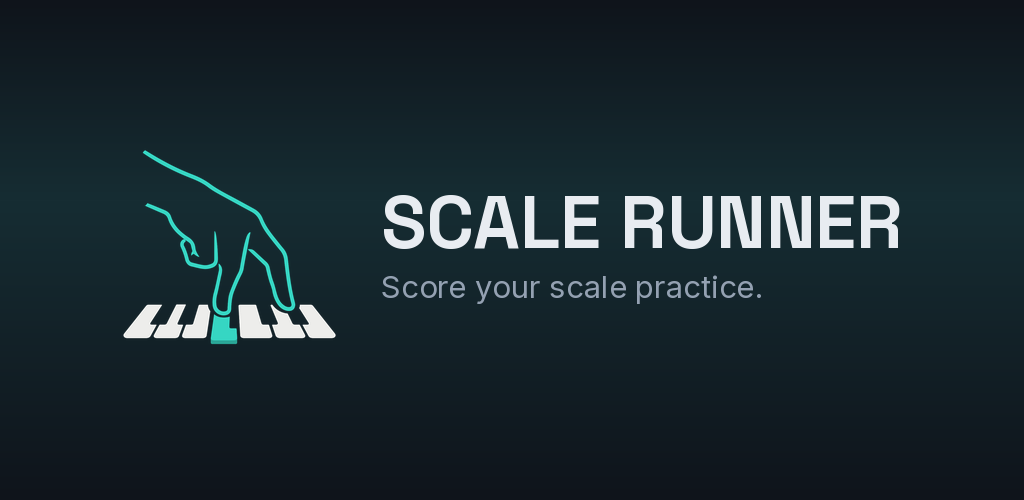
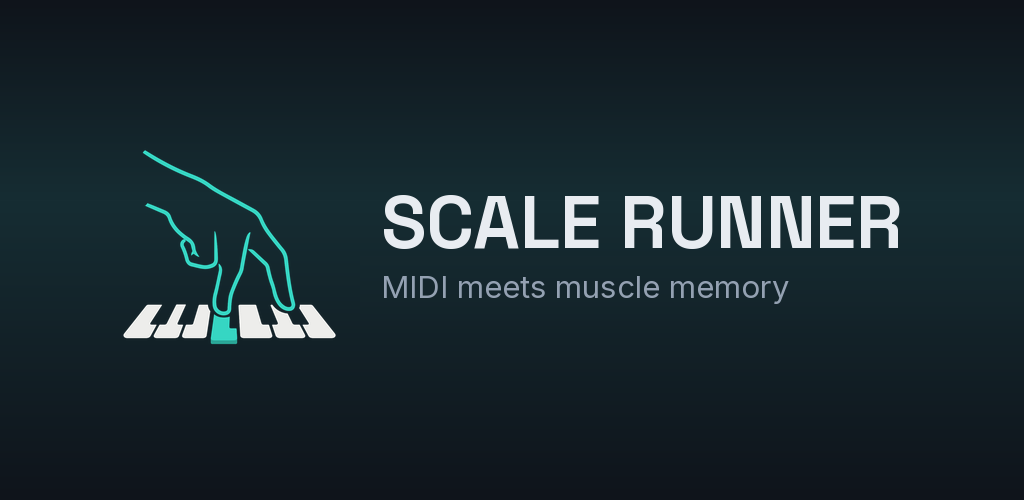
chore(store): update launch strategy doc and add IG ad assets
Carries the outreach/IG-ad progress recorded in docs/launch-strategy.md
plus the exported Android screenshots, Play icon, and the retagged
feature graphic ("MIDI meets muscle memory").

Claude-Session: https://claude.ai/code/session_01VHdwr6YH3qLkyhR7sZ3ed2

Changed region(s): [[0.375, 0.54, 0.7812, 0.6]]

diff --git a/docs/launch-strategy.md b/docs/launch-strategy.md
@@ -4,6 +4,37 @@
 
 ---
 
+## Status update — 2026-08-17
+
+Both stores are submitted. This section is the current truth; §0's "blockers
+before submission" below is now historical — left in place so the doc still
+reads top to bottom, but don't act on it as a to-do list.
+
+- **iOS 1.0** submitted 2026-08-12, build 1.0.0+8 — was "Waiting for Review" as
+  of submission. Check App Store Connect for current status; Apple's typical
+  window (2–5 days) has elapsed, so it may already be approved.
+- **Android 1.0.0 (11)** submitted 2026-08-13 to production, 177 countries —
+  was "in review." Google quotes up to 7 days, so it's likely still pending as
+  of today. Check Play Console.
+- `kPubliclyLaunched` is already `true`. The two beta URLs in
+  `web_hosting/hostinger/invite/index.html` are **still pointing at
+  TestFlight/Firebase** — deliberately left alone until **both** listings go
+  public, per plan. Swap them the moment both are live.
+- **iOS sandbox purchase test and Android license-tester purchase test have
+  still never been run.** As of 2026-08-12 the App Store IAP
+  (`com.scalerunner.app.pro`) was sitting in "Missing Metadata" in App Store
+  Connect, which would block the paywall from loading a price. Verify this is
+  cleared before launch day — if it's still stuck, the $14.99 unlock won't
+  work on day one.
+- Google sign-in on Android is confirmed working on real hardware. Invite
+  links opening the app have **not** been confirmed on hardware yet.
+- Landing page at `scalerunner.c1gnus.com`, beta tester emails, personal
+  network outreach, pre-launch video posting, and teacher outreach (§3,
+  Days 2–7) — no record of any of these having started yet. This is very
+  likely today's actual work.
+
+---
+
 ## 0. The timeline reality check (read this first)
 
 You said "launch within the week." Neither app is submitted yet, so **that is not
@@ -39,6 +70,9 @@ and a burst of day-one installs is the single biggest free ranking signal either
 store gives you.
 
 ### Blockers that must close before submission
+
+*(Historical — both stores are now submitted. See "Status update" above for
+what's actually still open.)*
 
 - **iOS IAP** — the RevenueCat/Apple bundle-ID credential incident. If it's
   still open, you can submit the app but the $14.99 unlock won't validate.
@@ -159,21 +193,27 @@ shoot once, use twice.
 
 ## 3. The 14-day plan
 
-### Days 1–2 (Wed 8/13 – Thu 8/14) — Ship the submission
+### Days 1–2 (Wed 8/13 – Thu 8/14) — Ship the submission ✅ DONE
 
-- Close the iOS IAP blocker or accept shipping with the paywall inactive on iOS.
-- On-device pass: Google sign-in, invite link opens app, purchase flow, a full
-  practice run start to finish.
-- Flip `kPubliclyLaunched`, swap invite-page URLs.
-- Build ASO assets (screenshots, video, copy above).
-- **Submit both stores.** Do not sit on this — every hour of delay is an hour
-  of review clock not running.
+- ~~Close the iOS IAP blocker or accept shipping with the paywall inactive on
+  iOS.~~ iOS submitted 8/12 with the IAP attached; metadata status needs a
+  recheck (see Status update above).
+- ~~On-device pass: Google sign-in, invite link opens app, purchase flow, a
+  full practice run start to finish.~~ Google sign-in confirmed. Invite link
+  and purchase flow **still not confirmed on hardware** — carry this forward,
+  don't drop it.
+- ✅ Flipped `kPubliclyLaunched`. Invite-page URL swap is intentionally
+  deferred until both listings are public (see Status update).
+- ✅ ASO assets built (iPhone, iPad, and Android screenshots all shipped).
+- ✅ **Submitted both stores** — iOS 8/12, Android 8/13.
 
-### Days 2–7 — Build the day-one list while review runs
+### Days 2–7 (through ~Mon 8/19) — Build the day-one list while review runs — 🔶 LIKELY NOT STARTED
 
 This is the whole game. Your objective is **a list of 100+ people who will
 install on launch day**, because concentrated installs is what moves store
 ranking, and ranking is the only free distribution either store gives you.
+No record of any of the below having started — this is probably where today's
+work belongs, alongside the local-outreach push in §8.
 
 - **Landing page.** You already own `scalerunner.c1gnus.com` and it's live on
   Hostinger. Replace the bare redirect at `/` with a real page: hero line, the
@@ -190,8 +230,11 @@ ranking, and ranking is the only free distribution either store gives you.
   out who to show you to. If your first post is on launch day, it reaches
   nobody. Every video ends with "launching next week — link in bio."
 - **Teacher outreach.** 10 emails a day, every day. Template in §5.
+- **Local music schools/stores.** Non-salesy demo asks over IG/FB DM. See §8
+  for the approach, script, and a starter list of 16 LA/Riverside County
+  targets.
 
-### Day 8 (approx. Wed 8/20) — Launch day
+### Day 8 (approx. Wed 8/20) — Launch day — contingent on both stores approving by then; recheck ASC/Play console
 
 - Email the list. One email, one link, morning Pacific.
 - Post the launch video across all three platforms.
@@ -309,6 +352,81 @@ real product worth pushing on. 1,000 installs with 3% retention is a leaky
 bucket, and pouring marketing into it wastes the effort. If retention is weak
 after week one, stop marketing and fix the product — the rewards system is
 almost certainly the fix.
+
+---
+
+## 8. Local outreach — music schools & stores (added 2026-08-17)
+
+Same logic as the teacher-email channel in §5, but lower-friction: a short,
+non-salesy DM to the school or store's Instagram or Facebook, asking if
+they'd be open to a quick demo. No pitch, no ask for money or a partnership —
+just "would you want to see it." A demo that goes well can turn into the
+teacher-email ask (free codes, referrals to students) naturally, but don't
+lead with that.
+
+### The approach
+
+- **DM, don't email**, for this channel — small studios check IG/FB DMs faster
+  than a general inbox, and a DM reads more personal than an email blast.
+  Instagram usually gets a better response rate than Facebook for this size of
+  business.
+- **Pace it like the teacher outreach:** a handful a day, not all 16 at once.
+  Personalize the first line with the school's name and city so it doesn't
+  read as copy-pasted.
+- **Follow up once** after 5–7 days of silence, then move on. Don't chase past
+  that.
+- If a demo happens and goes well, that's the moment to offer free Pro codes
+  for their students (§5's teacher template) and ask if they'd share it with
+  their roster.
+
+### DM script
+
+> Hi! I'm a local developer/pianist and I built Scale Runner — an app that
+> connects to a MIDI keyboard and scores scale/chord practice on timing, so
+> players get instant feedback instead of guessing. It's launching now on
+> iOS/Android.
+>
+> Would you be open to a quick demo sometime? No pitch — I'd genuinely like to
+> show it to people who teach this every day and hear what you think.
+
+### Starter list — LA County & Riverside County (16)
+
+Independent schools and stores, not the big chains (Guitar Center, School of
+Rock, Music & Arts) — a small studio's owner is far more likely to actually
+read a DM and take a demo than a corporate location.
+
+| Done | School / store | City | Instagram | Facebook |
+|---|---|---|---|---|
+| [x] | Los Angeles School of Music | Los Angeles | [@laschoolofmusic](https://www.instagram.com/laschoolofmusic/) | [losangelesschoolofmusic](https://www.facebook.com/losangelesschoolofmusic/) |
+| [x] | Angeles Academy of Music | Los Angeles | [@angelesacademyofmusic](https://www.instagram.com/angelesacademyofmusic/) | [angelesacademyofmusic](https://www.facebook.com/angelesacademyofmusic/) |
+| [x] | Hollywood Academy of Music & Arts | Hollywood | — (not found) | [hollywoodacademyofmusicmelrose](https://www.facebook.com/hollywoodacademyofmusicmelrose) |
+| [x] | Cal Heights Music | Long Beach | [@calheightsmusic](https://www.instagram.com/calheightsmusic) | [calheightsmusic](https://www.facebook.com/calheightsmusic) |
+| [x] | Belmont Music Studio | Long Beach | [@belmontmusicstudio](https://www.instagram.com/belmontmusicstudio/) | [Belmont-Music-Studio](https://www.facebook.com/pages/Belmont-Music-Studio/143077955754827) |
+| [x] | Encore Music School | South Pasadena | [@encoremusicsouthpasadena](https://www.instagram.com/encoremusicsouthpasadena/) | [encoresanmarino](https://www.facebook.com/encoresanmarino/) |
+| [x] | K Music Academy | Pasadena | [@kmusicacademy](https://www.instagram.com/kmusicacademy/) | [Kmusicacademypasadena](https://www.facebook.com/Kmusicacademypasadena) |
+| [x] | Melody Intl. Music School | Glendale | [@melodyintl.musicschool](https://www.instagram.com/melodyintl.musicschool) | [melodymusicschool](https://www.facebook.com/melodymusicschool) |
+| [x] | Hollywood Piano (School of Music) | Burbank / Glendale / LA | [@HollywoodPiano](https://instagram.com/HollywoodPiano) | [HollywoodPiano](https://www.facebook.com/HollywoodPiano) |
+| [x] | Rockside Music | Riverside | [@rocksidemusic](http://www.instagram.com/rocksidemusic) | [rocksidemusic](http://www.facebook.com/rocksidemusic/) |
+| [x] | Corona Music Center | Corona | [@lahabramusic](https://www.instagram.com/lahabramusic/) (shared with parent brand) | [MusicLessonsInCorona](https://www.facebook.com/MusicLessonsInCorona/) |
+| [x] | Bach to the Basics | Corona | [@bachtothebasics](https://www.instagram.com/bachtothebasics/) | [BachToTheBasics](https://www.facebook.com/BachToTheBasics) |
+| [x] | Musicology Temecula | Temecula | [@musicologytemecula](https://www.instagram.com/musicologytemecula/) | [musicologytemecula](https://www.facebook.com/musicologytemecula) |
+| [x] | Temecula Music Teacher | Temecula | [@temeculamusicteacher](https://instagram.com/temeculamusicteacher/) | [temeculamusicteacher](https://www.facebook.com/temeculamusicteacher) |
+| [x] | Academy of Music and Arts | Murrieta / Menifee / Temecula | [@academyofmusik](https://www.instagram.com/academyofmusik/) | [MurrietaMusicAcademy](https://www.facebook.com/MurrietaMusicAcademy/) |
+| [x] | Temecula Valley Piano | Murrieta | — (not found) | [temeculavalleypianolessons](https://www.facebook.com/temeculavalleypianolessons/) |
+
+Notes:
+- 9 in LA County (LA, Long Beach, Pasadena/South Pasadena, Glendale, Burbank),
+  7 in Riverside County (Riverside, Corona, Temecula, Murrieta).
+- Two entries only have one confirmed platform — DM whichever one is listed.
+- Corona Music Center's Instagram is shared with its sister store, La Habra
+  Music Center (same ownership) — worth a line acknowledging that if it comes
+  up.
+- Links were pulled from each business's own website in August 2026 — worth a
+  quick glance before DMing in case a handle has since changed.
+- This is a starter batch, not exhaustive. Once these 16 are worked through,
+  the same search pattern (site + "Instagram"/"Facebook" for nearby cities —
+  Santa Monica, Inglewood, Downey for LA County; Moreno Valley, Perris, Hemet
+  for Riverside County) will turn up more.
 
 ---
 
